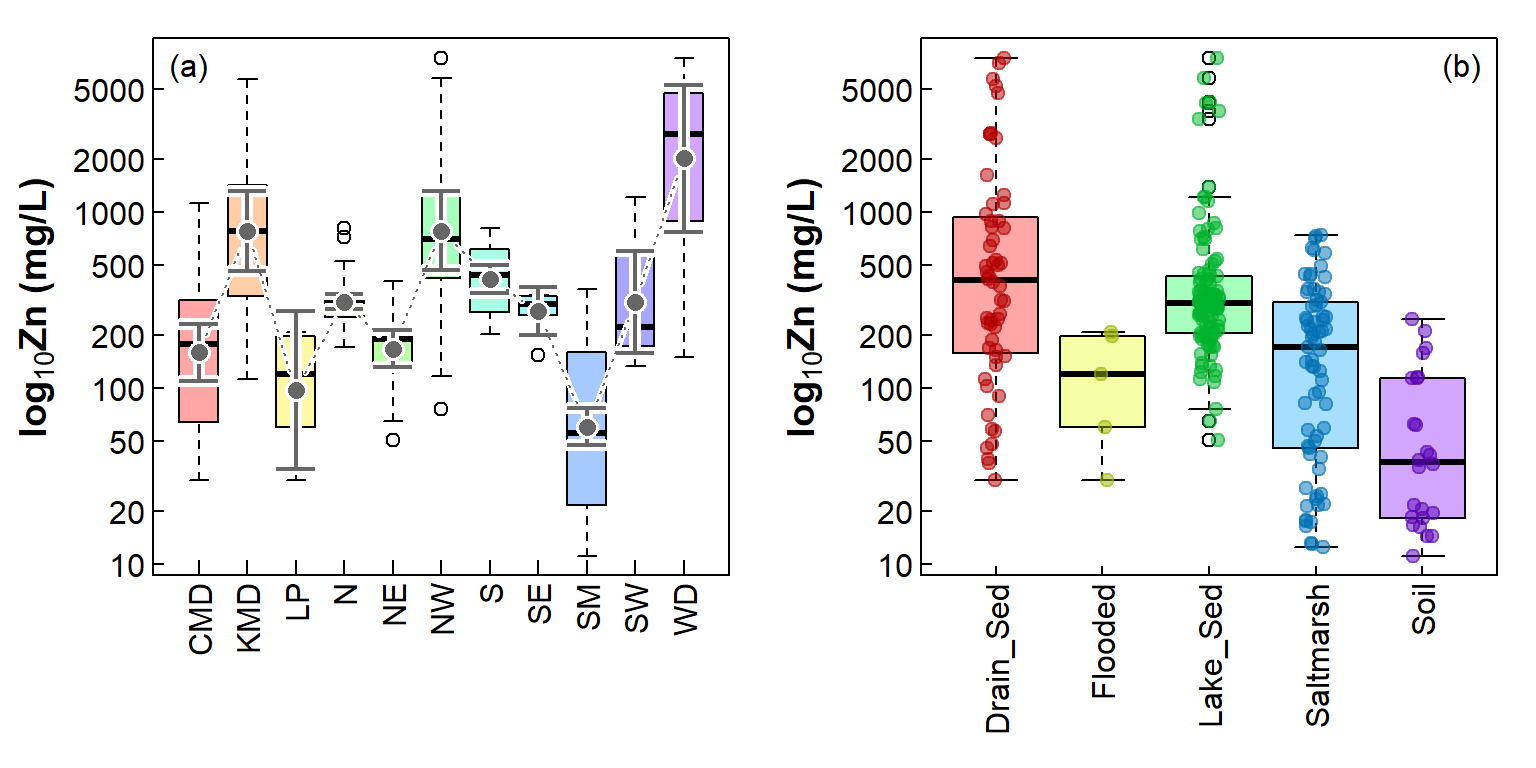
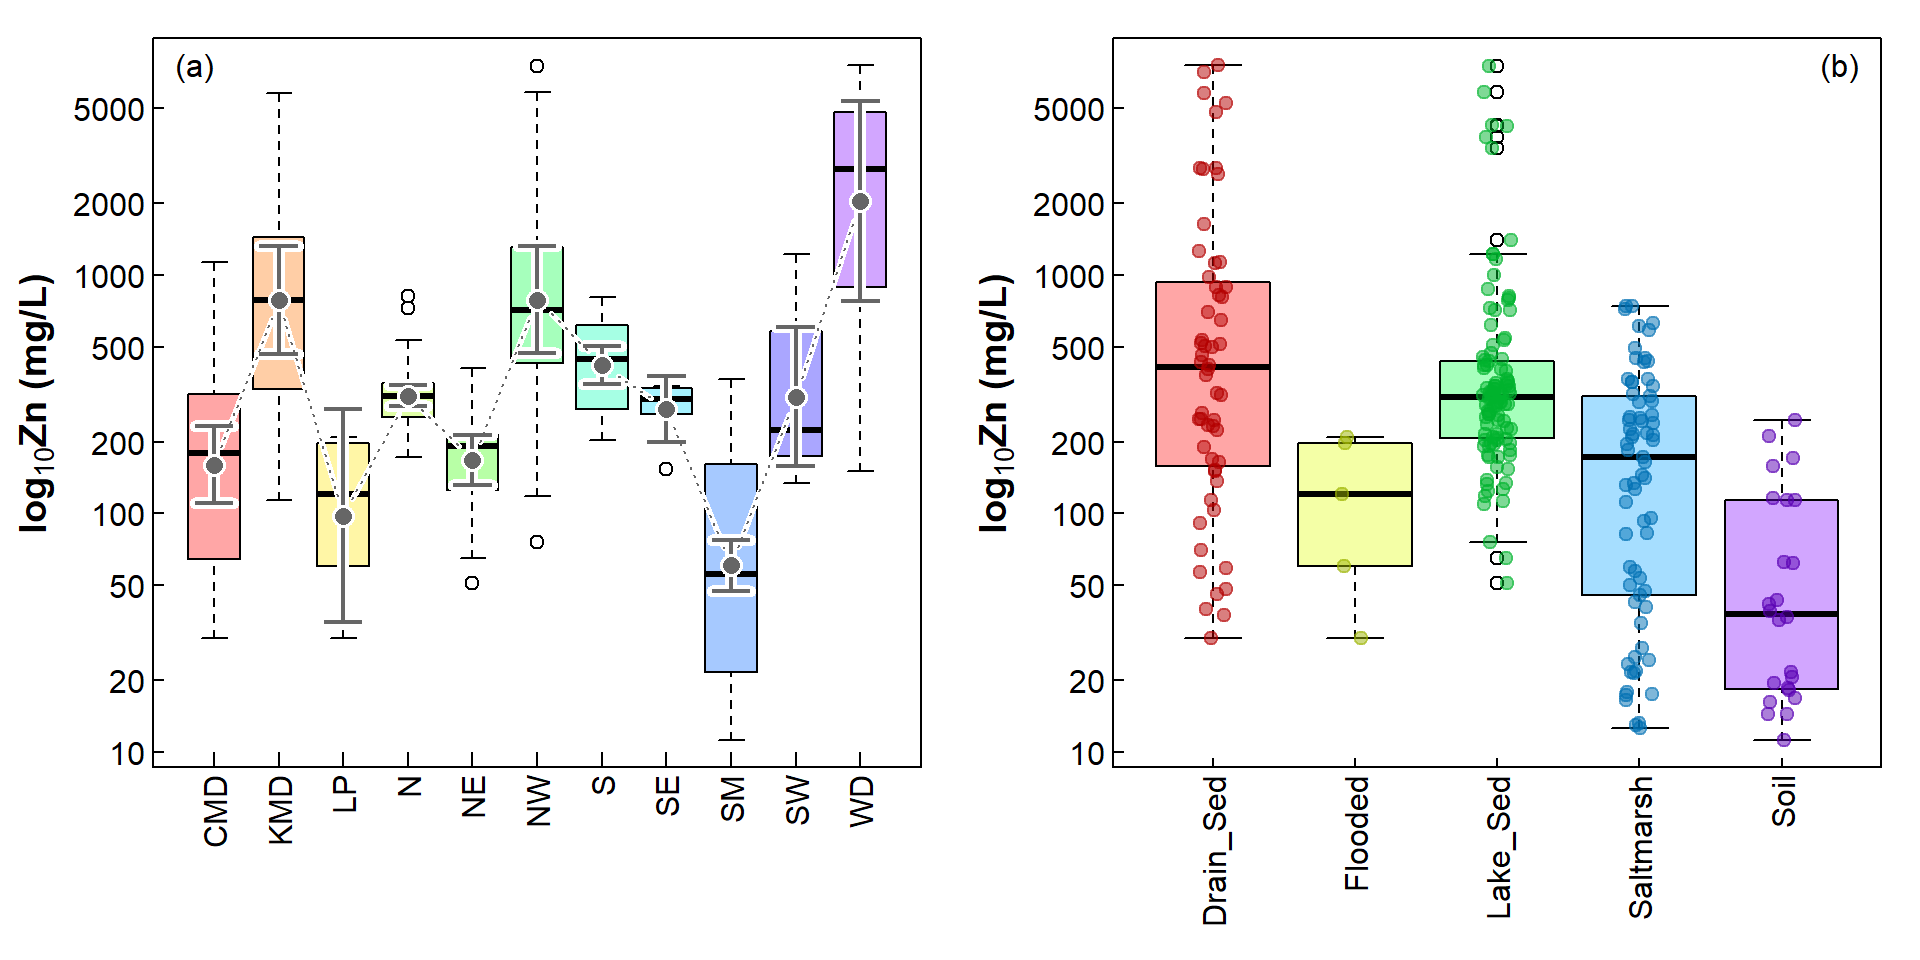
unhide code and enlarge Fig.2

diff --git a/boxplot.html b/boxplot.html
@@ -313,12 +313,44 @@ add a y-axis with a transformed scale. It's a bit trickier, but worth
 it. Now we can compare all the factor levels easily, yet still have
 actual values on the axis (<em>e.g</em>. for comparison with
 environmental guidelines).</p>
+<pre class="r"><code>par(mfrow=c(2,2),mar = c(5,4,1.5,1), mgp=c(2.4,0.2,0), tcl=0.25, font.lab = 2,
+    xpd = TRUE)
+
+with(afsed1922, boxplot(Zn ~ Zone, col=rainbow(11,s=0.35,end=0.75), 
+                        las=2, xlab=&quot;&quot;, cex = 1.4, cex.lab = 1.4))
+mtext(&quot;Sampling Zone&quot;,1,3,font=2)
+mtext(&quot;(a)&quot;, 3, -1.2, adj = 0.03, font = 2)
+mtext(&quot;Untransformed variable or axis&quot;, 3, 0.2, font=3)
+
+with(afsed1922, boxplot(log10(Zn) ~ Zone, col=rainbow(11,s=0.35,end=0.75), 
+                        las=2, xlab=&quot;&quot;, cex = 1.4, cex.lab = 1.4,
+                        ylab=expression(bold(paste(log[10],&quot;(Zn)&quot;)))))
+mtext(&quot;Sampling Zone&quot;,1,3,font=2)
+mtext(&quot;(b)&quot;, 3, -1.2, adj = 0.03, font = 2)
+mtext(&quot;Log-transformed variable&quot;, 3, 0.2, font=3)
+
+with(afsed1922, boxplot(Zn ~ Zone, log = &quot;y&quot;, col=rainbow(11,s=0.35,end=0.75), 
+                        las=2, xlab=&quot;&quot;, cex = 1.4, cex.lab = 1.4))
+mtext(&quot;Sampling Zone&quot;,1,3,font=2)
+mtext(&quot;(c)&quot;, 3, -1.2, adj = 0.03, font = 2)
+mtext(&quot;Log-transformed axis&quot;, 3, 0.2, font=3)
+
+with(afsed1922, boxplot(log10(Zn) ~ Zone, col=rainbow(11,s=0.35,end=0.75), 
+                        las=2, xlab=&quot;&quot;, cex = 1.4, cex.lab = 1.4, yaxt=&quot;n&quot;,
+                        ylab = &quot;Zn&quot;))
+axis(2, at=log10(c(10,20,50,100,100,200,500,1000,2000,5000)), 
+     labels=c(10,20,50,100,100,200,500,1000,2000,5000),las=2)
+mtext(&quot;Sampling Zone&quot;,1,3,font=2)
+mtext(&quot;(d)&quot;, 3, -1.2, adj = 0.03, font = 2, col = &quot;blue3&quot;)
+rect(-0.5,log10(10000),12.5,log10(20000), border = NA, col = &quot;#FFFF80&quot;)
+mtext(&quot;Best option: log variable, custom axis&quot;, 3, 0.2, font=3, col = &quot;blue3&quot;)</code></pre>
 <div class="figure">
 <img src="boxplot_files/figure-html/boxplots-2x2-1.png" alt="Figure 1: Four styles of boxplots based on the same data." width="672" />
 <p class="caption">
 Figure 1: Four styles of boxplots based on the same data.
 </p>
 </div>
+<pre class="r"><code>par(xpd = FALSE)</code></pre>
 <p>Of course, this is not the only modification we can make with box
 plots. A box plot is a good way to compare the spread of values between
 different levels of a factor, and the thick line inside boxes shows how
@@ -330,8 +362,57 @@ together with some measure of variability; the following example (Figure
 <code>group.CI()</code> function in the <code>Rmisc</code> package to
 calculate confidence intervals for a variable in groups defined by a
 factor.</p>
+<pre class="r"><code>library(Rmisc)
+par(mfrow=c(1,2), mar=c(5,4,1,1), mgp=c(2.4,0.2,0), tcl=0.25, font.lab = 2, las=1)
+# change data object, variable &amp; factor names to suit your data 
+ci0 &lt;- group.CI(log10(Zn)~Zone, data=afsed1922)
+with(afsed1922, 
+     boxplot(log10(Zn) ~ Zone, col=rainbow(NROW(ci0),s=0.35,end=0.75),
+             ylab=expression(bold(paste(log[10],&quot;Zn (mg/L)&quot;))),
+             cex.lab=1.2, yaxt=&quot;n&quot;, xaxt = &quot;n&quot;, xlab = &quot;&quot;)
+     ) 
+axis(1, las = 2, tcl = 0.4, at = seq(1,NROW(ci0)), 
+     labels = as.character(levels(afsed1922$Zone)))
+axis(2, at=log10(c(10,20,50,100,100,200,500,1000,2000,5000)), 
+     labels=c(10,20,50,100,100,200,500,1000,2000,5000),las=2)
+mtext(&quot;Sampling zone&quot;, side = 1, line = 5, font = 2, cex = 1.2)
+#
+# use arrow function to make background for [optional] error bars
+arrows(x0=seq(1,NROW(ci0)), y0=ci0[,3], y1=ci0[,2], 
+       col=&quot;white&quot;, angle=90, length=0.1, lwd=6) # optional
+arrows(x0=seq(1,NROW(ci0)), y0=ci0[,3], y1=ci0[,4], 
+       col=&quot;white&quot;, angle=90, length=0.1, lwd=6) # optional
+#
+# draw lines to join points first, so the points overplot lines
+lines(seq(1,NROW(ci0)), ci0[,3], col=&quot;white&quot;, lwd=3, type=&quot;c&quot;)
+lines(seq(1,NROW(ci0)), ci0[,3], col=&quot;gray40&quot;, lwd=1, type=&quot;c&quot;, lty=3)
+#
+# use arrow function to make actual [optional] error bars
+arrows(x0=seq(1,NROW(ci0)), y0=ci0[,3], y1=ci0[,2], 
+       col=&quot;gray40&quot;, angle=90, length=0.1, lwd=2, lend=1)
+arrows(x0=seq(1,NROW(ci0)), y0=ci0[,3], y1=ci0[,4], 
+       col=&quot;gray40&quot;, angle=90, length=0.1, lwd=2, lend=1)
+# draw the points with white background for contrast
+points(seq(1,NROW(ci0)), ci0[,3], col=&quot;white&quot;, pch=16, lwd=2, cex=1.6)
+points(seq(1,NROW(ci0)), ci0[,3], col=&quot;gray40&quot;, 
+       pch=16, lwd=2, cex=1.2)
+mtext(&quot;(a)&quot;, 3, -1.2, adj = 0.03)
+
+nc &lt;- nlevels(afsed1922$Type)
+palette(c(&quot;black&quot;,rainbow(nc,s=0.35,end=0.75),
+          rainbow(nlevels(afsed1922$Type),v=0.7,end=0.75, alpha=0.5),&quot;white&quot;))
+with(afsed1922, 
+     boxplot(log10(Zn) ~ Type, col=c(1:nc)+1,
+             ylab=expression(bold(paste(log[10],&quot;Zn (mg/L)&quot;))),
+             cex.lab=1.2, yaxt=&quot;n&quot;, xlab = &quot;&quot;,las=2)) 
+
+axis(2, at=log10(c(10,20,50,100,100,200,500,1000,2000,5000)), 
+     labels=c(10,20,50,100,100,200,500,1000,2000,5000),las=2)
+with(afsed1922, stripchart(log10(Zn) ~ Type, add = TRUE, vertical=TRUE, 
+                           method=&quot;jitter&quot;, pch=19,col=c(1:nc)+(nc+1)))
+mtext(&quot;(b)&quot;, 3, -1.2, adj = 0.97)</code></pre>
 <div class="figure">
-<img src="boxplot_files/figure-html/boxplots-with-means-1.png" alt="Figure 2: Including additional information on boxplots; (a) mean and CI, (b) individual observations." width="768" />
+<img src="boxplot_files/figure-html/boxplots-with-means-1.png" alt="Figure 2: Including additional information on boxplots; (a) mean and CI, (b) individual observations." width="960" />
 <p class="caption">
 Figure 2: Including additional information on boxplots; (a) mean and CI,
 (b) individual observations.
